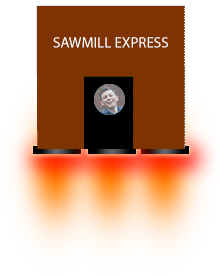
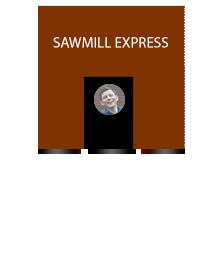
Fixed sawmillExpress after merge

Changed region(s): [[0.0822, 0.0, 0.9589, 0.8696]]

diff --git a/get_rect/core/src/se/chalmers/get_rect/game/entities/npc/sawmillExpress/SawmillExpress.java b/get_rect/core/src/se/chalmers/get_rect/game/entities/npc/sawmillExpress/SawmillExpress.java
@@ -3,28 +3,32 @@ package se.chalmers.get_rect.game.entities.npc.sawmillExpress;
 import se.chalmers.get_rect.adapters.IRectangleAdapter;
 import se.chalmers.get_rect.adapters.IRectangleFactoryAdapter;
 import se.chalmers.get_rect.game.entities.IPhysicsModel;
+import se.chalmers.get_rect.game.entities.player.Player;
 import se.chalmers.get_rect.physics.IPhysicsObject;
 import se.chalmers.get_rect.utilities.SideData;
 import se.chalmers.get_rect.utilities.Point;
 
 public class SawmillExpress implements IPhysicsModel {
+    private static final int SPEED = 50;
     private Point position;
+    private Point velocity;
     private IRectangleAdapter boundingBox;
     private final float width = 219;
     private final float height = 276;
     private boolean wäääh;
-    private int velocity = 3;
 
     public SawmillExpress(Point point, IRectangleFactoryAdapter rectangleFactory) {
         this.position = point;
+        this.velocity = new Point(0, 0);
         this.boundingBox = rectangleFactory.make(position, width, height);
         wäääh = false;
-
     }
 
     @Override
     public void update() {
-
+        if (wäääh) {
+            velocity = new Point(0, SPEED);
+        }
     }
 
     public IRectangleAdapter getBoundingBox() {
@@ -33,12 +37,15 @@ public class SawmillExpress implements IPhysicsModel {
 
     @Override
     public void onCollision(IPhysicsObject otherObject, SideData collisionSide, boolean isSolid) {
-
+        if (otherObject.getClass().equals(Player.class)) {
+            wäääh = true;
+        }
     }
 
     @Override
     public void setPosition(Point position) {
-
+        this.position = position;
+        this.boundingBox.setPosition(position);
     }
 
     @Override
@@ -48,6 +55,7 @@ public class SawmillExpress implements IPhysicsModel {
 
     @Override
     public void setVelocity(Point velocity) {
+        this.velocity = velocity;
     }
 
     public void setWäääh(boolean wäääh) {
@@ -59,7 +67,7 @@ public class SawmillExpress implements IPhysicsModel {
     }
 
     public Point getVelocity(){
-        return new Point(0,velocity);
+        return velocity;
     }
 
     @Override

diff --git a/get_rect/core/src/se/chalmers/get_rect/game/entities/npc/NpcFactory.java b/get_rect/core/src/se/chalmers/get_rect/game/entities/npc/NpcFactory.java
@@ -1,6 +1,7 @@
 package se.chalmers.get_rect.game.entities.npc;
 
 import se.chalmers.get_rect.adapters.IRectangleFactoryAdapter;
+import se.chalmers.get_rect.game.entities.EntityNotFoundException;
 import se.chalmers.get_rect.game.entities.IPhysicsEntity;
 import se.chalmers.get_rect.game.entities.IView;
 import se.chalmers.get_rect.game.entities.PhysicsEntity;
@@ -14,13 +15,20 @@ public class NpcFactory {
 
     public NpcFactory(IRectangleFactoryAdapter rectangleFactory) {
         this.rectangleFactory = rectangleFactory;
-
     }
+
     public IPhysicsEntity make(NpcDataStore dataStore) {
-        return make(dataStore.getPosition());
+        return make(dataStore.getType(), dataStore.getPosition());
     }
 
-    public IPhysicsEntity make(Point point) {
+    public IPhysicsEntity make(String type, Point point) {
+        if (type.equals("sawmillExpress"))
+            return makeSawmillExpress(point);
+
+        throw new EntityNotFoundException("NPC", type);
+    }
+
+    private IPhysicsEntity makeSawmillExpress(Point point) {
         SawmillExpress model = new SawmillExpress(point, rectangleFactory);
         IView view = new SawmillView(model);
 

diff --git a/get_rect/core/src/se/chalmers/get_rect/game/entities/npc/sawmillExpress/SawmillView.java b/get_rect/core/src/se/chalmers/get_rect/game/entities/npc/sawmillExpress/SawmillView.java
@@ -18,8 +18,14 @@ public class SawmillView implements IView{
         if (model.isWäääh()) {
             graphics.drawText("Wäääh", model.getPosition().add(new Point(50, 60)));
         }
-        if (model.isWäääh() && bla%2 == 1) {
-            graphics.draw("img/entities/sawmill/sawmill-express.png", model.getPosition().addX(5));
+        if (model.isWäääh()) {
+            Point pos = model.getPosition();
+
+            if (bla % 2 == 1) {
+                pos = pos.addX(5);
+            }
+
+            graphics.draw("img/entities/sawmill/sawmill-express-waaah.png", model.getPosition().addX(5));
         } else {
             graphics.draw("img/entities/sawmill/sawmill-express.png", model.getPosition());
         }

diff --git a/get_rect/core/src/se/chalmers/get_rect/game/entities/npc/NpcDataStore.java b/get_rect/core/src/se/chalmers/get_rect/game/entities/npc/NpcDataStore.java
@@ -5,9 +5,13 @@ import se.chalmers.get_rect.utilities.Point;
 public class NpcDataStore {
     private int x;
     private int y;
+    private String type;
 
     public Point getPosition() {
         return new Point(x ,y);
     }
 
+    public String getType() {
+        return type;
+    }
 }
